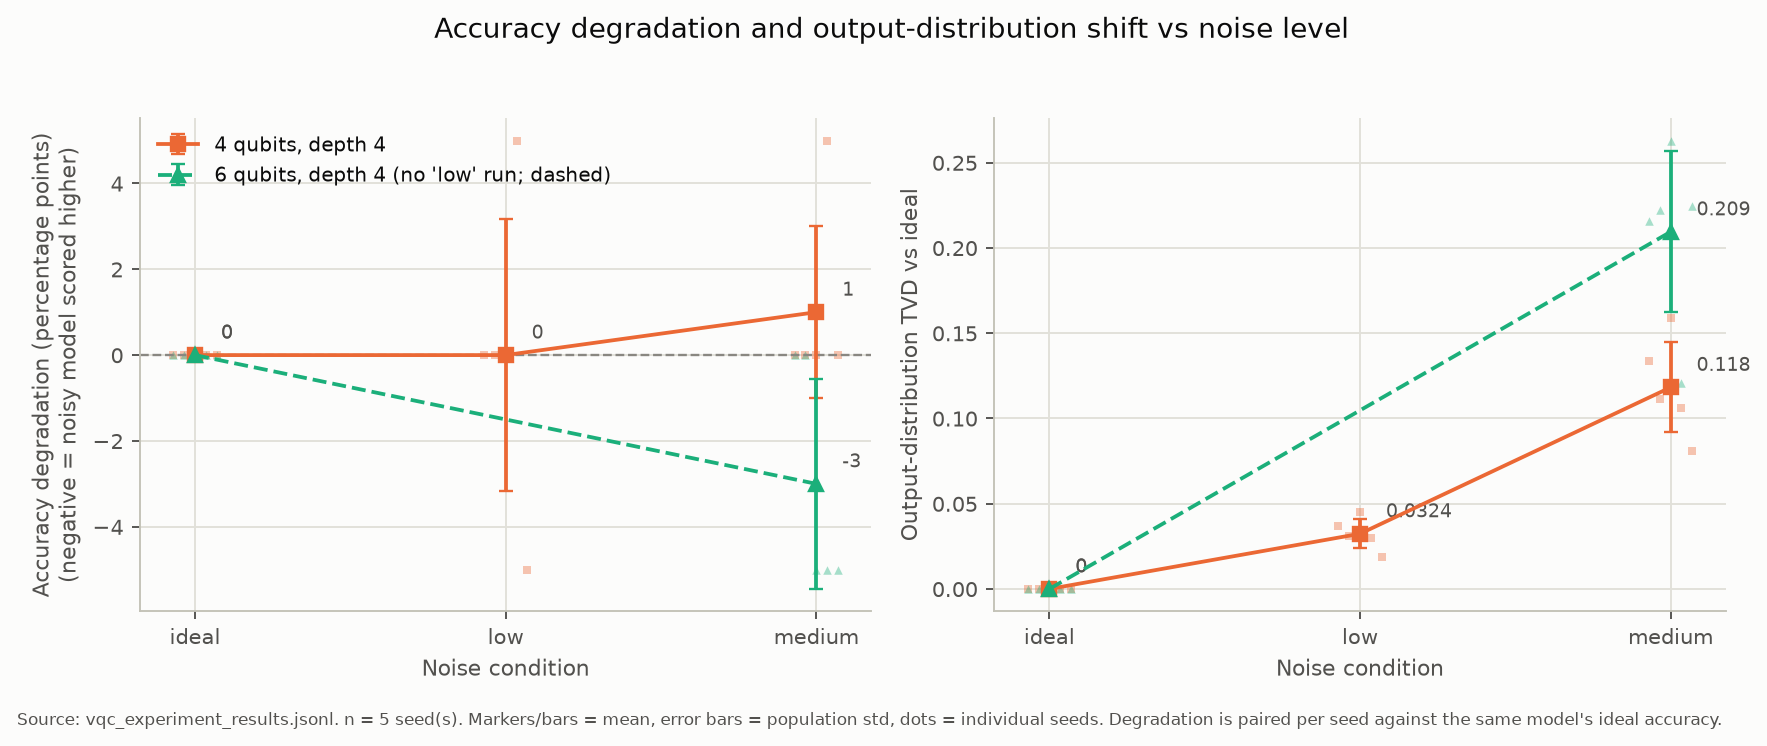
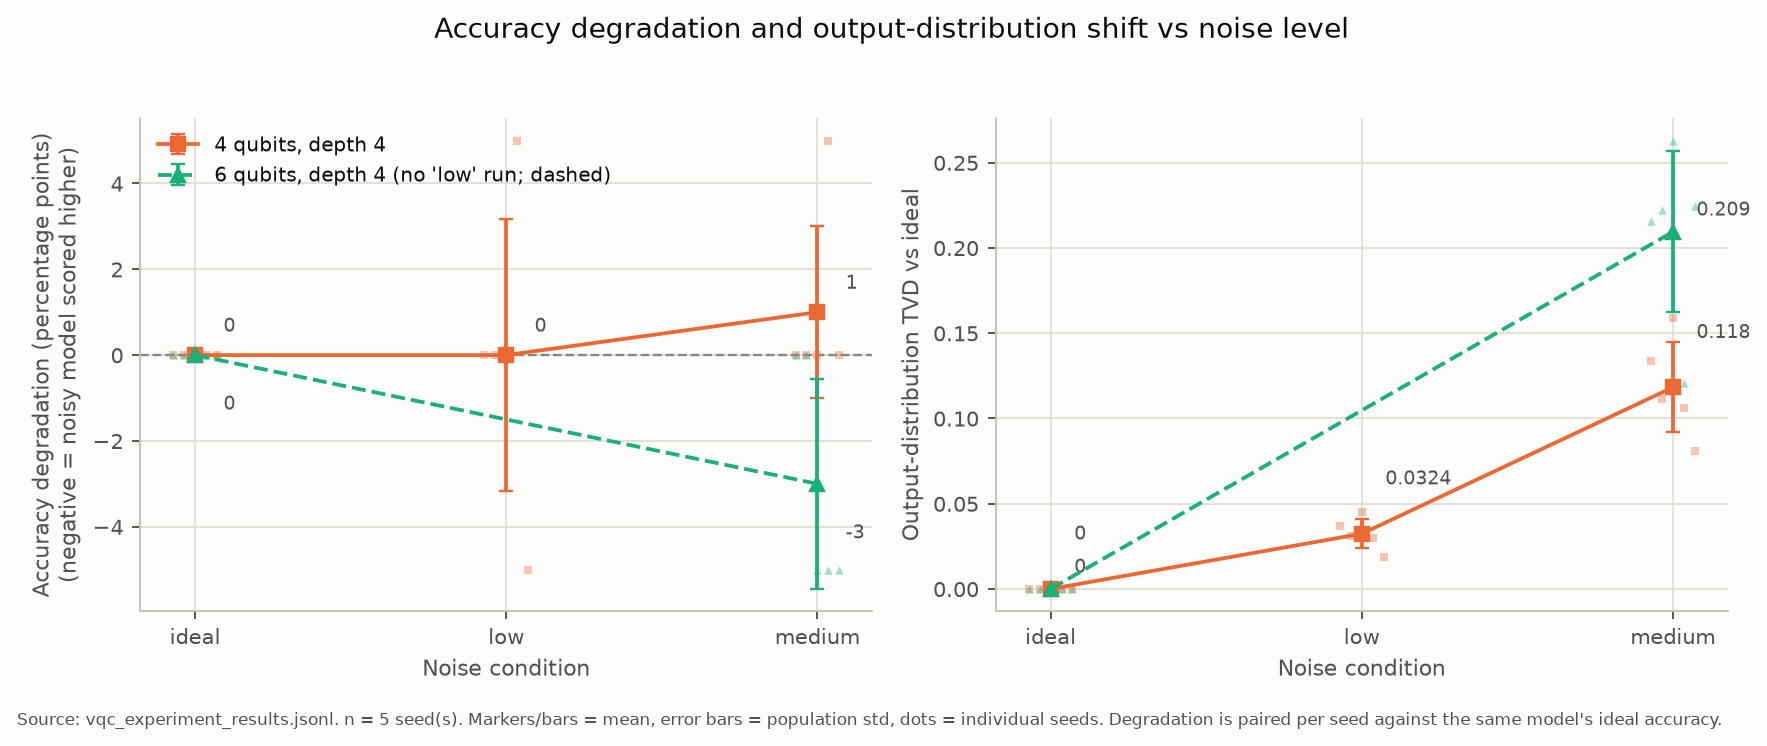
Fix plotting: circuit diagram rendering, AN-VQC classical bars, label overlaps
- circuit_4q_depth2.png: draw a dedicated diagram-only circuit (gate-for-gate
  identical to build_vqc_circuit) with block-separating barriers so Qiskit's
  mpl drawer stops visually interleaving blocks under ASAP scheduling. The
  real circuit was always correct; this was a rendering artifact only.
- 07_standard_vs_adaptive.png: Logistic Regression and SVM now draw as real
  bars with error bars/seed dots instead of an unexplained dotted line.
- 01_degradation_vs_noise.png: panel-aware label offsets (mirrored for the
  degradation panel, stacked for the zero-floored TVD panel) so identical
  values no longer overlap.
- extension_breast_cancer.png: classical baseline labels were being silently
  dropped because their annotation anchor fell outside the autoscaled axes
  (annotation_clip=None default); fixed with explicit xlim/ylim and
  annotation_clip=False.
- extension_noise_sweep.png footnote now states its probabilities are this
  extension's own chosen defaults, not assignment-specified values.

No experiments run; plots regenerated from existing results only.

diff --git a/src/qml_noise/plotting.py b/src/qml_noise/plotting.py
@@ -48,7 +48,10 @@ import numpy as np  # noqa: E402
 import pandas as pd  # noqa: E402
 from matplotlib.patches import Patch  # noqa: E402
 
-from qml_noise.circuits import build_vqc_circuit  # noqa: E402
+from qiskit import QuantumCircuit  # noqa: E402
+from qiskit.circuit import ParameterVector  # noqa: E402
+
+from qml_noise.circuits import build_feature_map  # noqa: E402
 from qml_noise.config import (  # noqa: E402
     NOISE_SWEEP_TWO_QUBIT_PROBABILITIES,
     PLOTS_DIR,
@@ -196,15 +199,63 @@ def _classical_means(classical: pd.DataFrame) -> dict[str, tuple[float, float, i
 # ---------------------------------------------------------------------------
 
 
+def _draw_only_circuit(n_qubits: int, depth: int) -> QuantumCircuit:
+    """A circuit for DIAGRAMS ONLY -- gate-by-gate identical to
+    ``circuits.build_vqc_circuit`` (same encoding, same per-block RY/RZ/CNOT-ring
+    structure, same parameter count and indexing), with one addition: a
+    ``barrier()`` after the encoding and after every ansatz block.
+
+    Qiskit's mpl drawer packs each wire's gates as early as that wire's own
+    dependencies allow (ASAP scheduling), not in program-append order. Without
+    a barrier, a qubit whose ring-CNOT finishes early can have the *next*
+    block's RY drawn before another qubit's *current* block has finished --
+    visually interleaving two blocks even though the actual circuit (and its
+    simulation) is correct. Barriers force every wire to re-synchronize at the
+    block boundary so each block renders as its own column group. This
+    function is never used for simulation, training, or any saved metric --
+    only ``build_vqc_circuit`` is -- so it cannot affect any result in
+    ``results/``.
+    """
+    feature_map, _ = build_feature_map(n_qubits)
+    weights = ParameterVector("w", 2 * n_qubits * depth)
+    qc = QuantumCircuit(n_qubits, name=f"vqc_q{n_qubits}_d{depth}_diagram")
+    qc.compose(feature_map, inplace=True)
+    qc.barrier()
+    k = 0
+    for block in range(depth):
+        for i in range(n_qubits):
+            qc.ry(weights[k], i)
+            k += 1
+        for i in range(n_qubits):
+            qc.rz(weights[k], i)
+            k += 1
+        for i in range(n_qubits):
+            qc.cx(i, (i + 1) % n_qubits)
+        if block < depth - 1:
+            qc.barrier()  # last block's boundary is already marked by measure_all()'s own barrier
+    qc.measure_all()
+    return qc
+
+
 def plot_circuit_diagram(
     out_dir: Path = PLOTS_DIR, *, n_qubits: int = 4, depth: int = 2
 ) -> Path:
-    """Qiskit ``draw("mpl")`` of the logical VQC circuit (no simulation involved)."""
-    qc, _, _ = build_vqc_circuit(n_qubits, depth)
-    fig = qc.draw("mpl", fold=-1, style={"backgroundcolor": SURFACE}, plot_barriers=True)
+    """Qiskit ``draw("mpl")`` of the logical (un-transpiled) VQC circuit.
+
+    No circuit is simulated or trained here. Uses a diagram-only circuit
+    (see ``_draw_only_circuit``) with block-separating barriers purely so
+    the rendering doesn't visually interleave blocks; the underlying gate
+    sequence is identical to the real training circuit.
+    """
+    qc = _draw_only_circuit(n_qubits, depth)
+    fig = qc.draw(
+        "mpl", fold=-1, style={"backgroundcolor": SURFACE}, plot_barriers=True
+    )
+    fig.set_size_inches(fig.get_size_inches()[0] * 1.15, fig.get_size_inches()[1])
     fig.suptitle(
         f"VQC circuit: {n_qubits} qubits, logical depth {depth} "
-        f"(angle encoding H+RY(x), then {depth} x [RY, RZ, CNOT ring], measure all)",
+        f"(angle encoding H+RY(x), then {depth} x [RY, RZ, CNOT ring], measure all; "
+        f"barriers mark block boundaries for readability only)",
         fontsize=10,
         y=1.02,
     )
@@ -225,7 +276,18 @@ def plot_degradation_vs_noise(main: pd.DataFrame, out_dir: Path, source: str) ->
         ("degradation_pp", "Accuracy degradation (percentage points)\n(negative = noisy model scored higher)"),
         ("distribution_total_variation_distance", "Output-distribution TVD vs ideal"),
     ]
+    # Per-series label offset: both series can land on the exact same value
+    # (e.g. both are 0 at "ideal" by construction), so a single fixed offset
+    # stacks their text labels exactly on top of each other. The degradation
+    # panel has headroom on both sides of 0, so mirroring one series above
+    # and one below its marker keeps them apart. The TVD panel's floor is 0
+    # (no negative values) -- a downward offset there collides with the
+    # x-axis tick labels instead, so both series go upward there, staggered
+    # at different heights so they still don't stack on each other.
+    mirrored_offset = {4: (12, 8), 6: (12, -17)}
+    stacked_offset = {4: (10, 19), 6: (10, 5)}
     for ax, (col, ylabel) in zip(axes, panels):
+        label_offset = mirrored_offset if col == "degradation_pp" else stacked_offset
         st = _stats(main, col)
         for q, ids in groups:
             xs = [NOISE_ORDER.index(_META[i][2]) for i in ids]
@@ -239,7 +301,8 @@ def plot_degradation_vs_noise(main: pd.DataFrame, out_dir: Path, source: str) ->
             for x, i in zip(xs, ids):
                 _seed_dots(ax, x, main.loc[main.experiment_id == i, col], ARCH_COLORS[q], ARCH_MARKERS[q])
                 ax.annotate(f"{st.loc[i, 'mean']:.3g}", (x, st.loc[i, "mean"]), textcoords="offset points",
-                            xytext=(11, 7), fontsize=8, color=INK2)
+                            xytext=label_offset[q], fontsize=8, color=INK2,
+                            va="bottom" if label_offset[q][1] > 0 else "top")
         ax.set_xticks(range(len(NOISE_ORDER)), NOISE_ORDER)
         ax.set_xlabel("Noise condition")
         ax.set_ylabel(ylabel)
@@ -513,7 +576,7 @@ def plot_standard_vs_adaptive(
         raise PlotSkipped("standard vs adaptive VQC: results/an_vqc_classical_results.jsonl not found / empty")
 
     _style()
-    fig, ax = plt.subplots(figsize=(10, 4.8))
+    fig, ax = plt.subplots(figsize=(11.5, 4.8))
     width, group_gap = 0.34, 0.5
     pos = 0.0
     ticks, tick_labels = [], []
@@ -533,28 +596,38 @@ def plot_standard_vs_adaptive(
         tick_labels.append(_AN_VQC_METHOD_LABELS[method])
         pos += group_gap
 
-    cl = _classical_means(an_vqc_classical)
-    by_mean: dict[float, list[str]] = {}
-    for model, (mean, _, _) in cl.items():
-        by_mean.setdefault(round(mean, 4), []).append(model.replace("_", " "))
-    right_edge = pos - group_gap
-    for row, (mean, names) in enumerate(by_mean.items()):
-        ax.axhline(mean, color=NEUTRAL, lw=1, ls=":")
-        ax.annotate(f"{' / '.join(names)} ({mean:.2f})", (right_edge, mean), xytext=(12, 10 - row * 12),
-                    textcoords="offset points", ha="left", fontsize=7.5, color=INK2)
-    ax.set_xlim(-0.5, right_edge + 1.3)
+    # Classical baselines: real bars (one each, no noise axis), not a reference
+    # line -- a dotted line at the top of the chart reads as an unexplained
+    # ceiling rather than a directly comparable data point.
+    cl_means = _classical_means(an_vqc_classical)
+    for model_name in ("logistic_regression", "svm"):
+        if model_name not in cl_means:
+            continue
+        mean, std, _ = cl_means[model_name]
+        sub = an_vqc_classical[an_vqc_classical.model_name == model_name]["accuracy"]
+        ax.bar(pos, mean, width=width * 1.7, color=NEUTRAL, hatch="//", edgecolor=SURFACE,
+               linewidth=0.6, yerr=std, capsize=3, error_kw={"ecolor": INK2, "lw": 1}, zorder=3)
+        _seed_dots(ax, pos, sub, INK2)
+        ax.annotate(f"{mean:.2f}", (pos, mean + std), textcoords="offset points",
+                    xytext=(0, 4), ha="center", fontsize=8)
+        ticks.append(pos)
+        tick_labels.append(model_name.replace("_", " ").replace(" ", "\n"))
+        pos += width * 1.7 + group_gap
 
+    ax.set_xlim(-0.5, pos - group_gap + 0.5)
     ax.set_xticks(ticks, tick_labels)
     ax.set_ylim(0, 1.2)
     ax.set_ylabel("Test accuracy")
-    ax.set_title("Standard VQC baselines vs AN-VQC (and Logistic Regression / SVM)")
+    ax.set_title("Standard VQC baselines vs AN-VQC, and classical baselines")
     ax.legend(
         handles=[Patch(facecolor=NOISE_COLORS["ideal"], edgecolor=SURFACE, label="ideal"),
-                 Patch(facecolor=NOISE_COLORS["medium"], hatch="xx", edgecolor=SURFACE, label="medium")],
+                 Patch(facecolor=NOISE_COLORS["medium"], hatch="xx", edgecolor=SURFACE, label="medium"),
+                 Patch(facecolor=NEUTRAL, hatch="//", edgecolor=SURFACE, label="classical (no noise axis)")],
         loc="lower right",
     )
     _footnote(fig, source, _n_seeds(an_vqc),
-              "AN-VQC's architecture (qubits, depth) can differ per seed; see report/report.md Section 9.4.")
+              "AN-VQC's architecture (qubits, depth) can differ per seed; see report/report.md Section 9.4. "
+              "Classical bars use results/an_vqc_classical_results.jsonl (same 3 seeds).")
     fig.tight_layout(rect=(0, 0.04, 1, 1))
     return _save(fig, out_dir / "07_standard_vs_adaptive.png")
 
@@ -631,7 +704,9 @@ def plot_extension_noise_sweep(
             ax.axhline(0, color=NEUTRAL, lw=1, ls="--")
     axes[0].legend(loc="lower left")
     fig.suptitle("EXTENSION - depolarizing noise sweep (evaluation only; weights trained ideally)", fontsize=12)
-    _footnote(fig, source, _n_seeds(sweep), "Noise probabilities are chosen defaults, not assignment values.")
+    _footnote(fig, source, _n_seeds(sweep),
+              "Noise probabilities are this extension's own chosen defaults, not assignment-specified "
+              "values (unlike Section 6's low/medium profiles).")
     fig.tight_layout(rect=(0, 0.04, 1, 0.95))
     return _save(fig, out_dir / "extension_noise_sweep.png")
 
@@ -656,11 +731,31 @@ def plot_extension_breast_cancer(
         _seed_dots(ax, x, bc.loc[bc.experiment_id == i, "accuracy"], NOISE_COLORS[noise], ARCH_MARKERS[q])
         ax.annotate(f"{st.loc[i, 'mean']:.2f}", (x, st.loc[i, "mean"]), textcoords="offset points",
                     xytext=(10, -4), fontsize=8, color=INK2)
-    for model, (mean, _, _) in cl.items():
+    # Classical models' means can be only a few hundredths apart (LogReg vs.
+    # SVM here), which on this axis range puts their labels a few pixels
+    # apart -- a fixed offset makes them overlap into illegible text. Stagger
+    # each label's vertical offset by its row index so they never collide,
+    # regardless of how close the underlying means are.
+    for row, (model, (mean, _, _)) in enumerate(cl.items()):
         ax.axhline(mean, color=NEUTRAL, lw=1, ls=":")
-        ax.annotate(f"{model.replace('_', ' ')} ({mean:.2f})", (len(ids) - 0.5, mean), xytext=(0, 3),
-                    textcoords="offset points", ha="right", fontsize=7.5, color=INK2)
+        ax.annotate(f"{model.replace('_', ' ')} ({mean:.2f})", (len(ids) - 0.5, mean),
+                    xytext=(0, 3 + row * 20), textcoords="offset points",
+                    ha="right", fontsize=7.5, color=INK2, annotation_clip=False)
     ax.set_xticks(range(len(ids)), [f"{i}\n{_META[i[3:]][0]}q d{_META[i[3:]][1]}\n{_META[i[3:]][2]}" for i in ids])
+    # The classical labels anchor at x = len(ids) - 0.5 = 7.5, past the last
+    # data point (x=7) -- autoscale's default margin stops at ~7.43, so that
+    # anchor sits just OUTSIDE the axes and matplotlib drops the whole
+    # annotation (not just overlaps it: it never renders at all). Extend the
+    # right edge explicitly so the anchor -- and the text extending left from
+    # it -- are fully inside the visible area.
+    ax.set_xlim(-0.6, len(ids) - 0.1)
+    # Without explicit headroom, autoscale caps the axis right at the highest
+    # classical mean, clipping its label (and the second, stacked label
+    # above it) off the top of the chart entirely -- not just overlapping,
+    # invisible. Leave room above the highest classical mean for both
+    # staggered labels.
+    highest_classical_mean = max(mean for mean, _, _ in cl.values())
+    ax.set_ylim(top=highest_classical_mean + 0.09)
     ax.set_ylabel("Test accuracy (full held-out test set)")
     ax.set_title("Accuracy per experiment")
     noisy = [i for i in ids if _META[i[3:]][2] != "ideal"]
